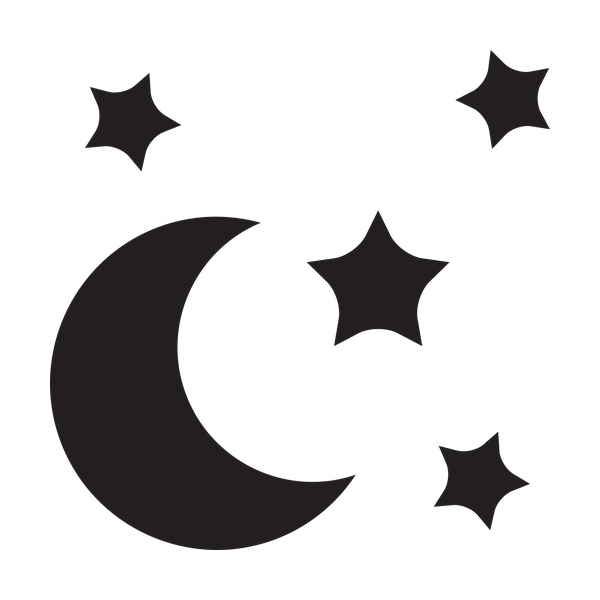
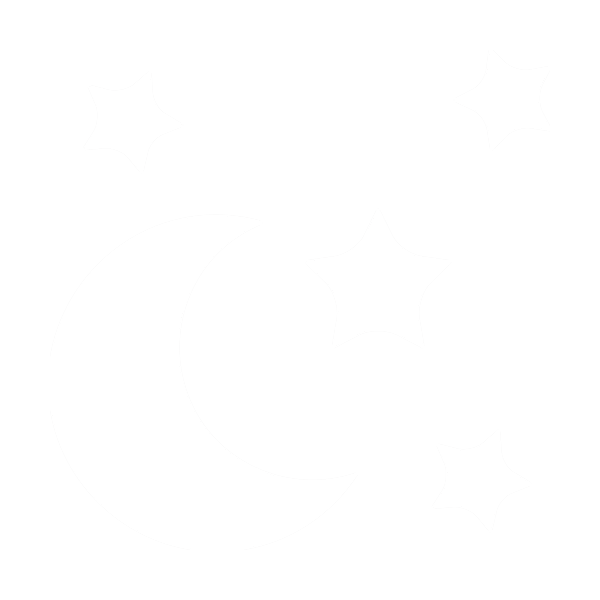
Lightness info box

diff --git a/index.html b/index.html
@@ -51,8 +51,11 @@
 	</div>
 	<div class = "col-md-6">
 		<h2>Facility Remoteness</h2>
-		<div>Evening Darkness</div>
-		<div class="remoteness" id="light">
+		<div class="remote-title" id="light-title">Evening Darkness: <b>Dark</b></div>
+			<div class="remoteness" id="light">
+				<img class="remote-icon" src="icons/stars/light.png"/>
+				<img class="remote-icon-right" src="icons/stars/dark.png"/>
+			</div>
 	</div>
 </div>
 </div>

diff --git a/rstyle.css b/rstyle.css
@@ -5,6 +5,29 @@ margin-top: 10px;
 
 }
 
+.remote-icon{
+height:100%;
+position: static;
+float: left;
+}
+
+.remote-icon-right{
+height:100%;
+position: static;
+float: right;
+}
+
+.remote-title{
+padding:5px;
+display:inline-block;
+margin-top: 20px;
+}
+
+
+#light-title{
+background-color: #ff9900;
+}
+
 #light{
 background-color: #ff9900;
 }
